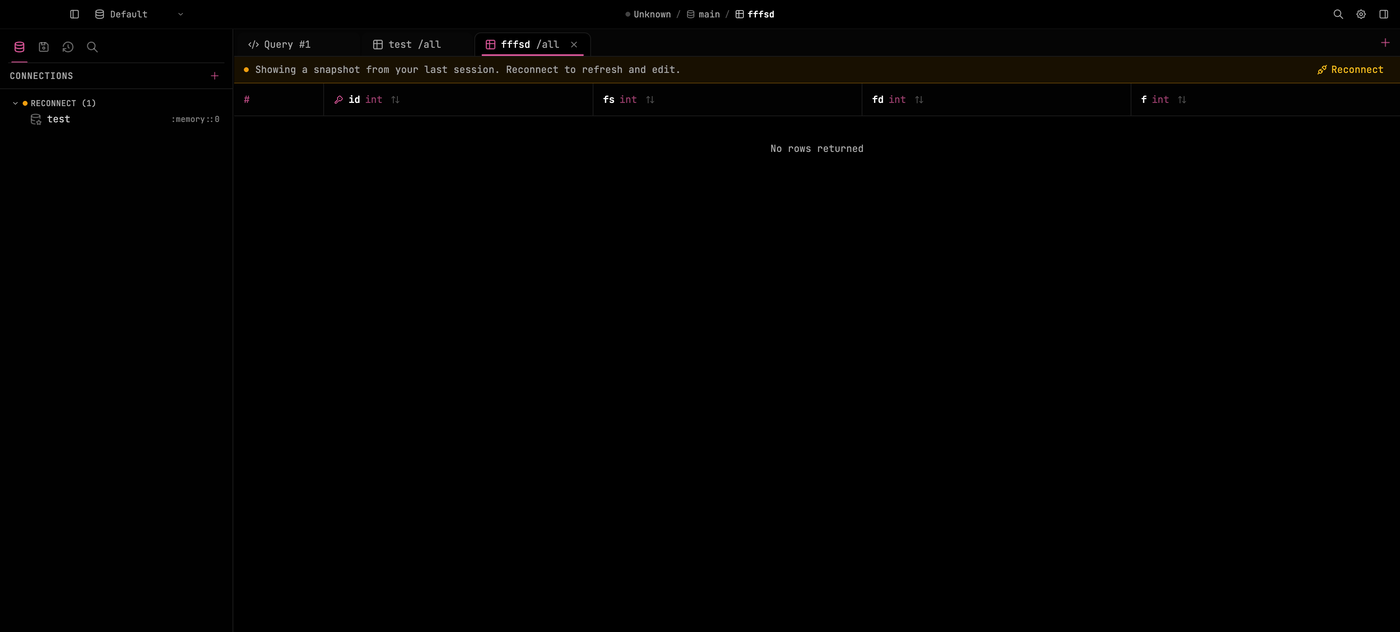
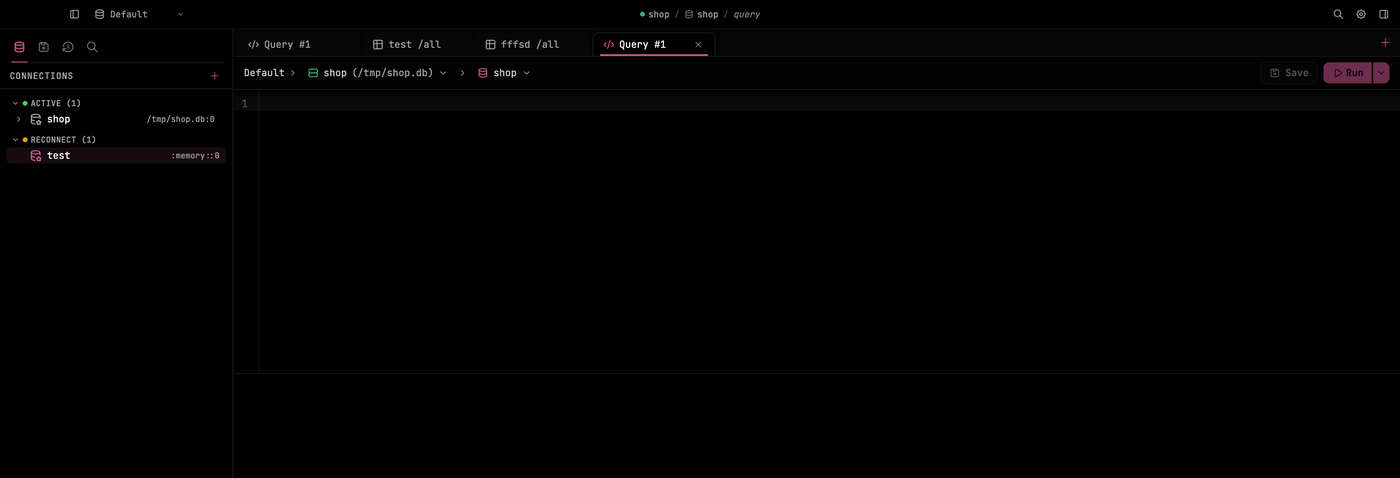
💄 style(docs): MirinJs in prose, Kome in the docs chrome, a sidebar that groups
Naming — the product is MirinJs, not all-lowercase. Three spellings, three
different things, and only the first one changed:

  MirinJs   the product, in prose, titles and the wordmark
  mirinjs   the npm package and import specifier
  mirin     the binary

Sidebar — the ---Reference--- separator sat directly above a folder of the
same name, the same duplication already fixed for Get started. Separators now
group folders instead of shadowing one: Learn covers start/guides/concepts,
Reference covers the API & CLI folder (renamed from "Reference"), platforms
and agents. Every folder gets a lucide icon.

Kome — the logo is the mascot, so it belongs on the docs too, not just the
landing. Extracted to a shared component and wired into the nav title; the
landing now imports it instead of drawing its own copy.

Anko — recaptured against a seeded SQLite database with real tables, so the
card shows a connected client rather than a disconnected snapshot.

diff --git a/packages/docs/src/components/landing.tsx b/packages/docs/src/components/landing.tsx
@@ -1,4 +1,5 @@
 import { Link } from "@tanstack/react-router";
+import { Kome } from "@/components/kome";
 
 const AMBER = "#dd9a3f";
 const INK = "#14100c";
@@ -7,36 +8,6 @@ const RICE = "#f7f4ec";
 const sans = { fontFamily: "'Space Grotesk', system-ui, sans-serif" };
 const serif = { fontFamily: "'Instrument Serif', Georgia, serif" };
 const mono = { fontFamily: "'JetBrains Mono', ui-monospace, monospace" };
-
-function Kome({ size = 28 }: { size?: number }) {
-  const id = `kome-${size}`;
-  return (
-    <svg width={size} height={size} viewBox="0 0 200 200" fill="none" aria-hidden>
-      <title>Kome</title>
-      <defs>
-        <clipPath id={id}>
-          <path d="M100 20c9 14 22 32 30 50 6 14 9 27 9 40 0 33-17 54-39 54s-39-21-39-54c0-13 3-26 9-40 8-18 21-36 30-50z" />
-        </clipPath>
-      </defs>
-      <path
-        d="M100 20c9 14 22 32 30 50 6 14 9 27 9 40 0 33-17 54-39 54s-39-21-39-54c0-13 3-26 9-40 8-18 21-36 30-50z"
-        fill={RICE}
-      />
-      <g clipPath={`url(#${id})`}>
-        <path d="M52 118h96v82H52z" fill={AMBER} />
-      </g>
-      <ellipse cx="85" cy="100" rx="7.5" ry="9.5" fill="#232830" />
-      <ellipse cx="115" cy="100" rx="7.5" ry="9.5" fill="#232830" />
-      <path
-        d="M92 118q8 8 16 0"
-        stroke="#232830"
-        strokeWidth="3.6"
-        strokeLinecap="round"
-        fill="none"
-      />
-    </svg>
-  );
-}
 
 function Eyebrow({ children }: { children: React.ReactNode }) {
   return (
@@ -76,7 +47,7 @@ export function Landing() {
       <header className="mx-auto flex max-w-[1180px] items-center justify-between px-6 py-5">
         <div className="flex items-center gap-3">
           <Kome />
-          <span className="text-[20px] font-bold tracking-[-0.045em]">mirinjs</span>
+          <span className="text-[20px] font-bold tracking-[-0.045em]">MirinJs</span>
         </div>
         <nav
           className="flex items-center gap-7 text-[14.5px]"
@@ -213,7 +184,7 @@ export function Landing() {
             </h2>
             <p className="text-[16px] leading-[1.65]" style={{ color: "rgba(247,244,236,0.65)" }}>
               Most desktop frameworks are a black box to a coding agent — it writes, you run, you
-              describe what happened. mirinjs closes that loop.
+              describe what happened. MirinJs closes that loop.
             </p>
             <Link
               to="/docs/$"
@@ -229,7 +200,7 @@ export function Landing() {
 
       <section className="mx-auto max-w-[1180px] px-6 py-24">
         <h2 style={serif} className="mb-8 text-[46px] leading-[1.06]">
-          Built with mirinjs
+          Built with MirinJs
         </h2>
         <div className="grid gap-4 md:grid-cols-2">
           <AppCard
@@ -278,7 +249,7 @@ export function Landing() {
         >
           <div className="flex items-center gap-2.5">
             <Kome size={18} />
-            <span>mirinjs — Netko Labs, MIT</span>
+            <span>MirinJs — Netko Labs, MIT</span>
           </div>
           <div className="flex gap-6">
             <Link to="/docs/$" params={{ _splat: "" }}>

diff --git a/packages/docs/src/components/kome.tsx b/packages/docs/src/components/kome.tsx
@@ -1,0 +1,39 @@
+/** The logo is the mascot — see the brand book. Face included, never stripped. */
+export function Kome({ size = 22 }: { size?: number }) {
+  const id = `kome-clip-${size}`;
+  return (
+    <svg width={size} height={size} viewBox="0 0 200 200" fill="none" aria-hidden="true">
+      <defs>
+        <clipPath id={id}>
+          <path d="M100 20c9 14 22 32 30 50 6 14 9 27 9 40 0 33-17 54-39 54s-39-21-39-54c0-13 3-26 9-40 8-18 21-36 30-50z" />
+        </clipPath>
+      </defs>
+      <path
+        d="M100 20c9 14 22 32 30 50 6 14 9 27 9 40 0 33-17 54-39 54s-39-21-39-54c0-13 3-26 9-40 8-18 21-36 30-50z"
+        fill="#f7f4ec"
+      />
+      <g clipPath={`url(#${id})`}>
+        <path d="M52 118h96v82H52z" fill="#dd9a3f" />
+      </g>
+      <ellipse cx="85" cy="100" rx="7.5" ry="9.5" fill="#232830" />
+      <ellipse cx="115" cy="100" rx="7.5" ry="9.5" fill="#232830" />
+      <path
+        d="M92 118q8 8 16 0"
+        stroke="#232830"
+        strokeWidth="3.6"
+        strokeLinecap="round"
+        fill="none"
+      />
+    </svg>
+  );
+}
+
+/** Kome plus the wordmark, for a nav slot. */
+export function KomeWordmark() {
+  return (
+    <span className="inline-flex items-center gap-2">
+      <Kome />
+      <span className="text-[17px] font-bold tracking-[-0.045em]">MirinJs</span>
+    </span>
+  );
+}

diff --git a/packages/docs/src/lib/layout.shared.tsx b/packages/docs/src/lib/layout.shared.tsx
@@ -1,11 +1,11 @@
 import type { BaseLayoutProps } from "fumadocs-ui/layouts/shared";
-import { appName, gitConfig } from "./shared";
+import { KomeWordmark } from "@/components/kome";
+import { gitConfig } from "./shared";
 
 export function baseOptions(): BaseLayoutProps {
   return {
     nav: {
-      // JSX supported
-      title: appName,
+      title: <KomeWordmark />,
     },
     githubUrl: `https://github.com/${gitConfig.user}/${gitConfig.repo}`,
   };

diff --git a/packages/docs/src/routes/docs/$.tsx b/packages/docs/src/routes/docs/$.tsx
@@ -28,7 +28,7 @@ export const Route = createFileRoute("/docs/$")({
   head: ({ loaderData }) => ({
     meta: loaderData
       ? [
-          { title: `${loaderData.title} — mirinjs` },
+          { title: `${loaderData.title} — MirinJs` },
           { name: "description", content: loaderData.description },
         ]
       : [],

diff --git a/packages/docs/src/routes/__root.tsx b/packages/docs/src/routes/__root.tsx
@@ -14,7 +14,7 @@ export const Route = createRootRoute({
         content: "width=device-width, initial-scale=1",
       },
       {
-        title: "mirinjs — desktop apps, brewed in Bun",
+        title: "MirinJs — desktop apps, brewed in Bun",
       },
       {
         name: "description",

diff --git a/packages/docs/src/lib/shared.ts b/packages/docs/src/lib/shared.ts
@@ -1,4 +1,4 @@
-export const appName = "mirinjs";
+export const appName = "MirinJs";
 export const docsRoute = "/docs";
 export const docsImageRoute = "/og/docs";
 

diff --git a/tasks/docs-ia.md b/tasks/docs-ia.md
@@ -76,6 +76,10 @@ From the brand book, restated where the writing happens:
 - **Errors and API text get zero personality.** Cause, then the exact fix command.
 - **Vocabulary is fixed**: main process / renderer / native core / typed RPC / window.
   Not backend, frontend, binding, webview, or screen.
+- **The product is `MirinJs`** in prose, titles and the wordmark. Lowercase
+  `mirinjs` is the npm package and import specifier; `mirin` is the binary.
+  Three spellings, three different things — this supersedes the brand book's
+  all-lowercase rule, which the owner overruled.
 - **Brewing language never appears in docs prose.** It lives on the landing page, in
   CLI flavour text, and in release posts.
 
